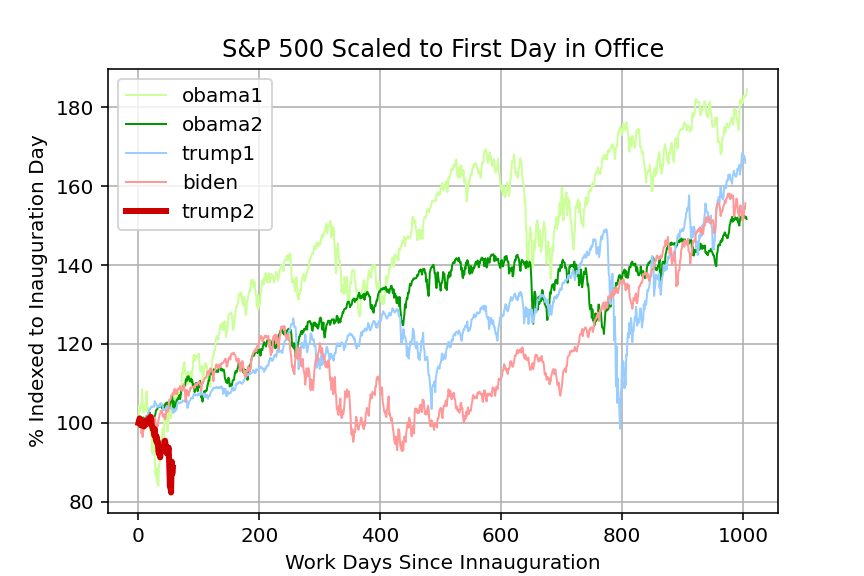
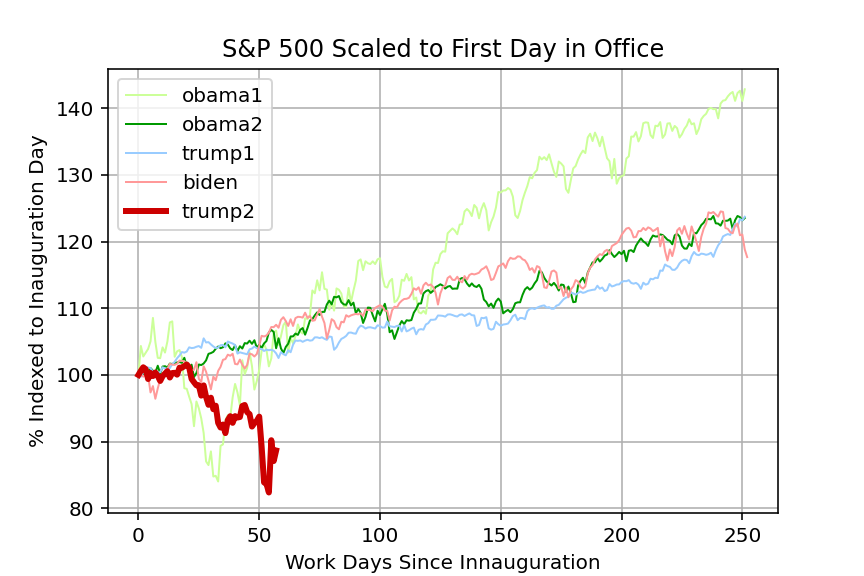
Update photos

Changed region(s): [[0.0625, 0.1562, 0.9062, 0.9688], [0.0625, 0.2812, 0.125, 0.3438], [0.0625, 0.1562, 0.0938, 0.2188]]

diff --git a/mock_stock_png.py b/mock_stock_png.py
@@ -1,0 +1,36 @@
+# -*- coding: utf-8 -*-
+"""
+Created on Sat Apr 12 08:08:16 2025
+
+@author: d23gr
+"""
+import matplotlib.pyplot as plt
+import numpy as np
+
+# Generate mock stock market data
+np.random.seed(42)  # For reproducibility
+days = np.arange(0, 45)  # Simulating 100 days
+prices = 100 + np.cumsum(np.random.normal(0, 1, len(days)))  # Random walk for stock prices
+
+# Create the plot
+plt.figure(figsize=(10, 6))
+plt.plot(days, prices, color="red", linewidth=15)  # Line with increased thickness
+
+# Add an arrow at the end
+plt.annotate('', xy=(days[8], prices[8]), xytext=(days[-5], prices[-5]),
+             arrowprops=dict(facecolor='black', 
+                             arrowstyle='<-,head_width=2,head_length=4', 
+                             lw=15))
+
+# Remove all axes and labels
+plt.axis('off')
+
+# Save the graph to a PNG file
+output_file = "mock_stock_market_arrow.png"
+plt.savefig(output_file, dpi=300, bbox_inches='tight')
+print(f"Graph saved as {output_file}")
+
+# Optional: Show the graph
+plt.show()
+# Optional: Show the graph
+plt.show()

diff --git a/economy_getStockAsset.py b/economy_getStockAsset.py
@@ -83,7 +83,7 @@ assets = ['^GSPC']
 x_label = 'Work Days Since Innauguration'
 y_label = '% Indexed to Inauguration Day'
 title = 'S&P 500 Scaled to First Day in Office'
-yrs = 4
+yrs = 1
 days_out = 365*yrs
 
 #################################### Scaled S&P500 ############################
